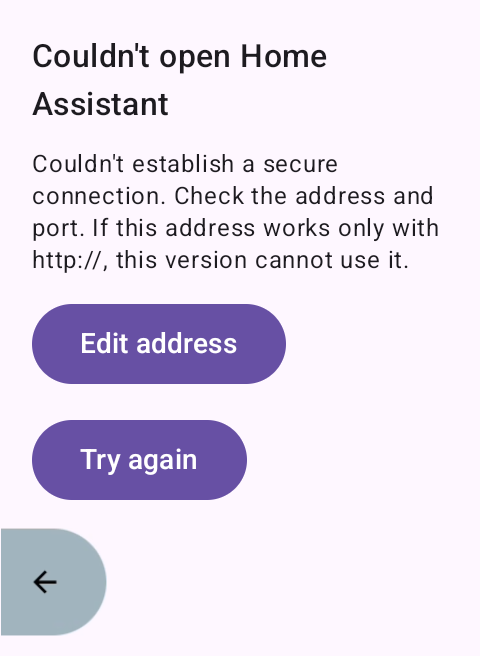
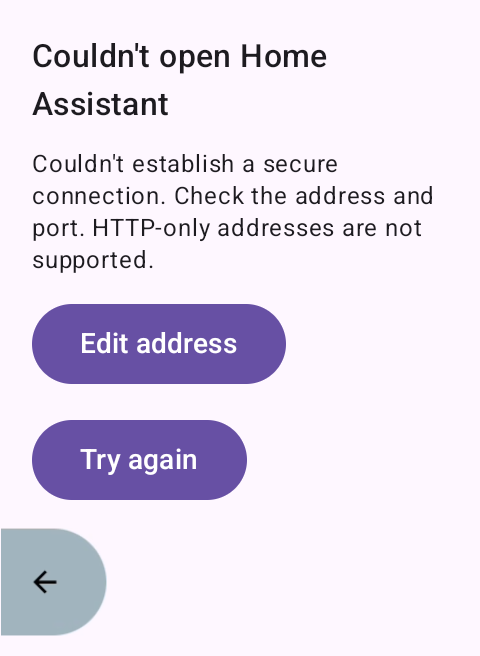
State HTTPS requirement without a version qualifier

Changed region(s): [[0.0625, 0.3354, 0.9375, 0.4268]]

diff --git a/app/src/androidTest/kotlin/com/karoohass/screens/OAuthWebViewTest.kt b/app/src/androidTest/kotlin/com/karoohass/screens/OAuthWebViewTest.kt
@@ -57,7 +57,7 @@ class OAuthWebViewTest {
                 }
             }
             composeRule.waitUntil(20_000) { composeRule.onAllNodesWithText("Couldn't open Home Assistant").fetchSemanticsNodes().isNotEmpty() }
-            composeRule.onNodeWithText("Couldn\'t establish a secure connection. Check the address and port. If this address works only with http://, this version cannot use it.").assertIsDisplayed()
+            composeRule.onNodeWithText("Couldn\'t establish a secure connection. Check the address and port. HTTP-only addresses are not supported.").assertIsDisplayed()
             composeRule.onNodeWithText("Edit address").performScrollTo().performClick()
             composeRule.onNodeWithText("Try again").performScrollTo().performClick()
             assertEquals(1, failures)
